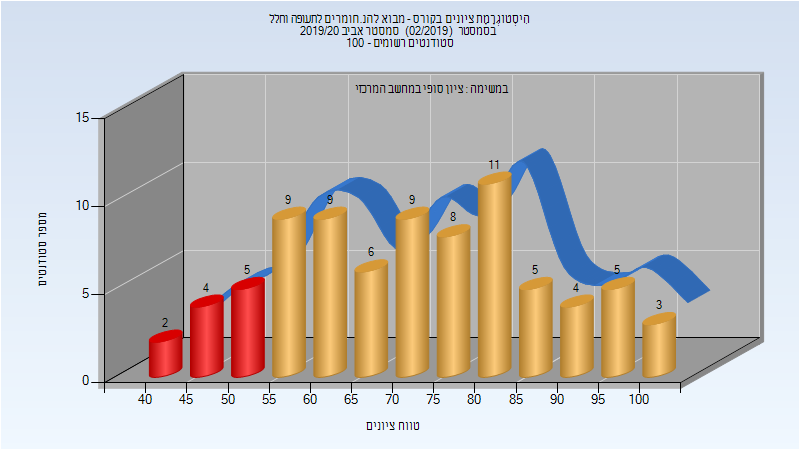
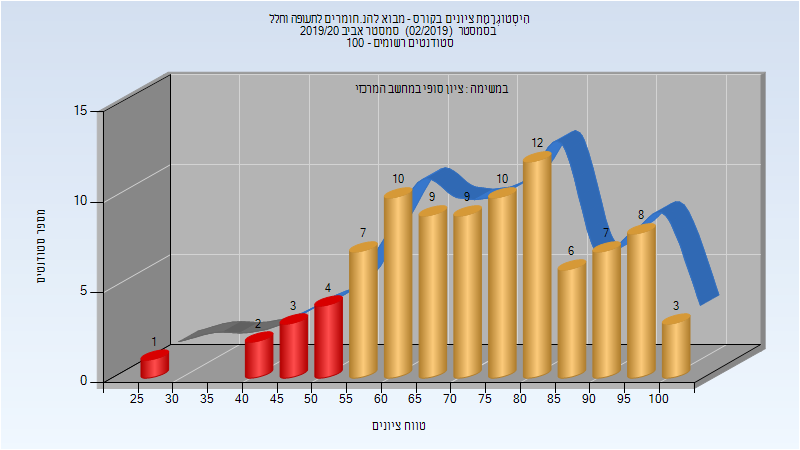
Deploy michael-maltsev/technion-histograms to github.com/michael-maltsev/technion-histograms.git:gh-pages

diff --git a/314200/index.html b/314200/index.html
@@ -511,6 +511,32 @@
 </tr>
 </tbody>
 </table>
+<h3>סופי מועד ב'</h3>
+<p><img src="201902/Final_B.png" alt="201902 Final_B" /></p>
+<table>
+<thead>
+<tr>
+<th>סטודנטים</th>
+<th>עברו/נכשלו</th>
+<th>אחוז עוברים</th>
+<th>ציון מינימלי</th>
+<th>ציון מקסימלי</th>
+<th>ממוצע</th>
+<th>חציון</th>
+</tr>
+</thead>
+<tbody>
+<tr>
+<td>25</td>
+<td>19/6</td>
+<td>76</td>
+<td>25</td>
+<td>99</td>
+<td>70.2</td>
+<td>67</td>
+</tr>
+</tbody>
+</table>
 <h3>סופי</h3>
 <p><img src="201902/Finals.png" alt="201902 Finals" /></p>
 <table>
@@ -527,12 +553,12 @@
 </thead>
 <tbody>
 <tr>
-<td>80</td>
-<td>69/11</td>
-<td>86</td>
-<td>41</td>
+<td>91</td>
+<td>81/10</td>
+<td>89</td>
+<td>25</td>
 <td>100</td>
-<td>71.925</td>
+<td>73.923</td>
 <td>74</td>
 </tr>
 </tbody>

diff --git a/314200/README.md b/314200/README.md
@@ -157,11 +157,19 @@
 | ---- | ---- | ---- | ---- | ---- | ---- | ---- |
 | 80 | 69/11 | 86 | 41 | 100 | 71.925 | 74 |
 
+### סופי מועד ב'
+
+![201902 Final_B](201902/Final_B.png)
+
+| סטודנטים | עברו/נכשלו | אחוז עוברים | ציון מינימלי | ציון מקסימלי | ממוצע | חציון |
+| ---- | ---- | ---- | ---- | ---- | ---- | ---- |
+| 25 | 19/6 | 76 | 25 | 99 | 70.2 | 67 |
+
 ### סופי
 
 ![201902 Finals](201902/Finals.png)
 
 | סטודנטים | עברו/נכשלו | אחוז עוברים | ציון מינימלי | ציון מקסימלי | ממוצע | חציון |
 | ---- | ---- | ---- | ---- | ---- | ---- | ---- |
-| 80 | 69/11 | 86 | 41 | 100 | 71.925 | 74 |
+| 91 | 81/10 | 89 | 25 | 100 | 73.923 | 74 |
 
